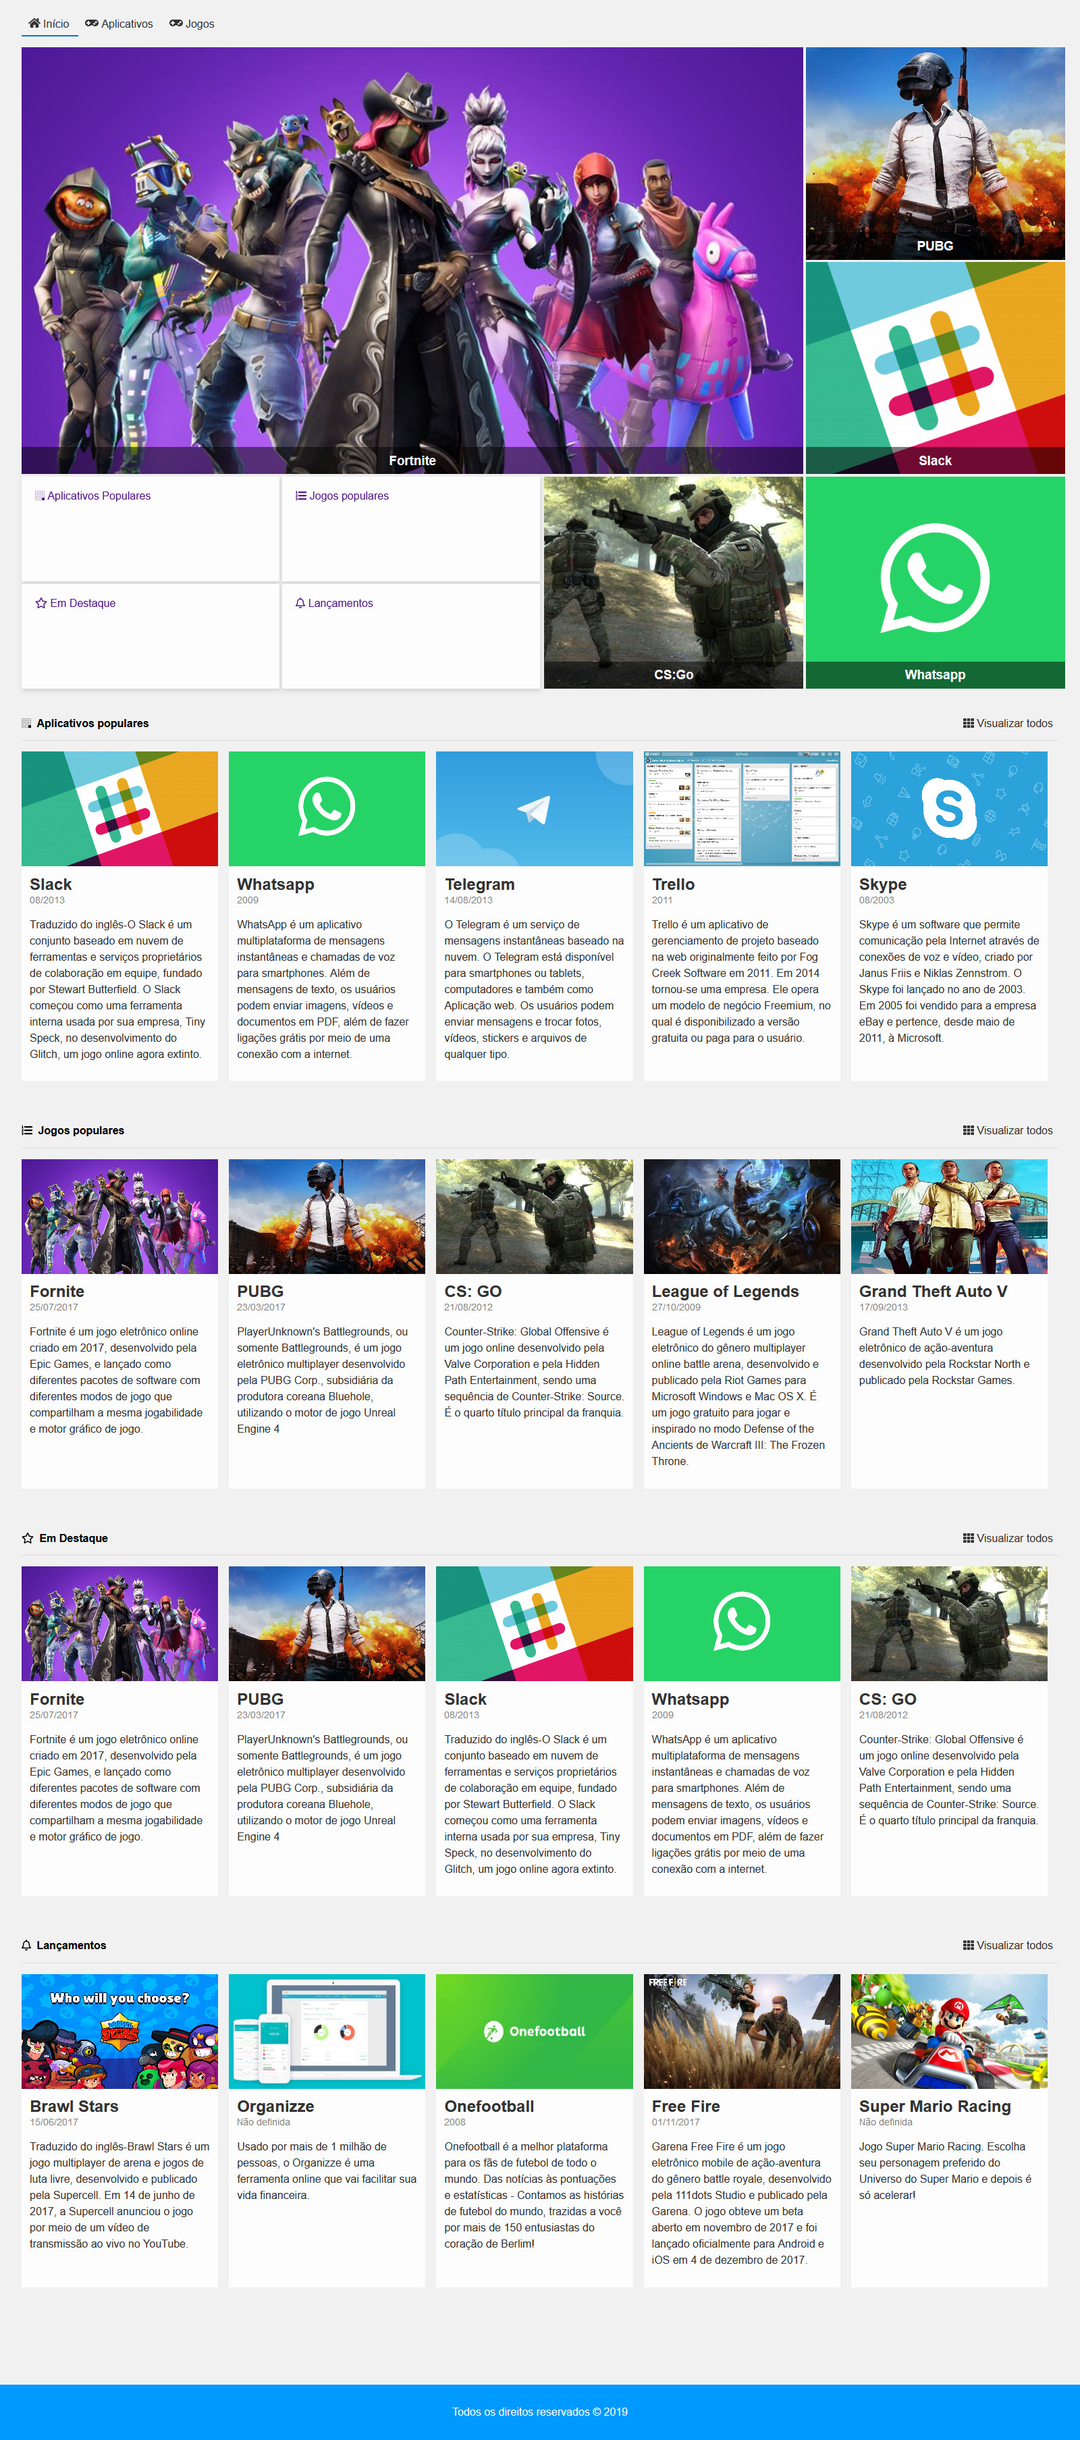
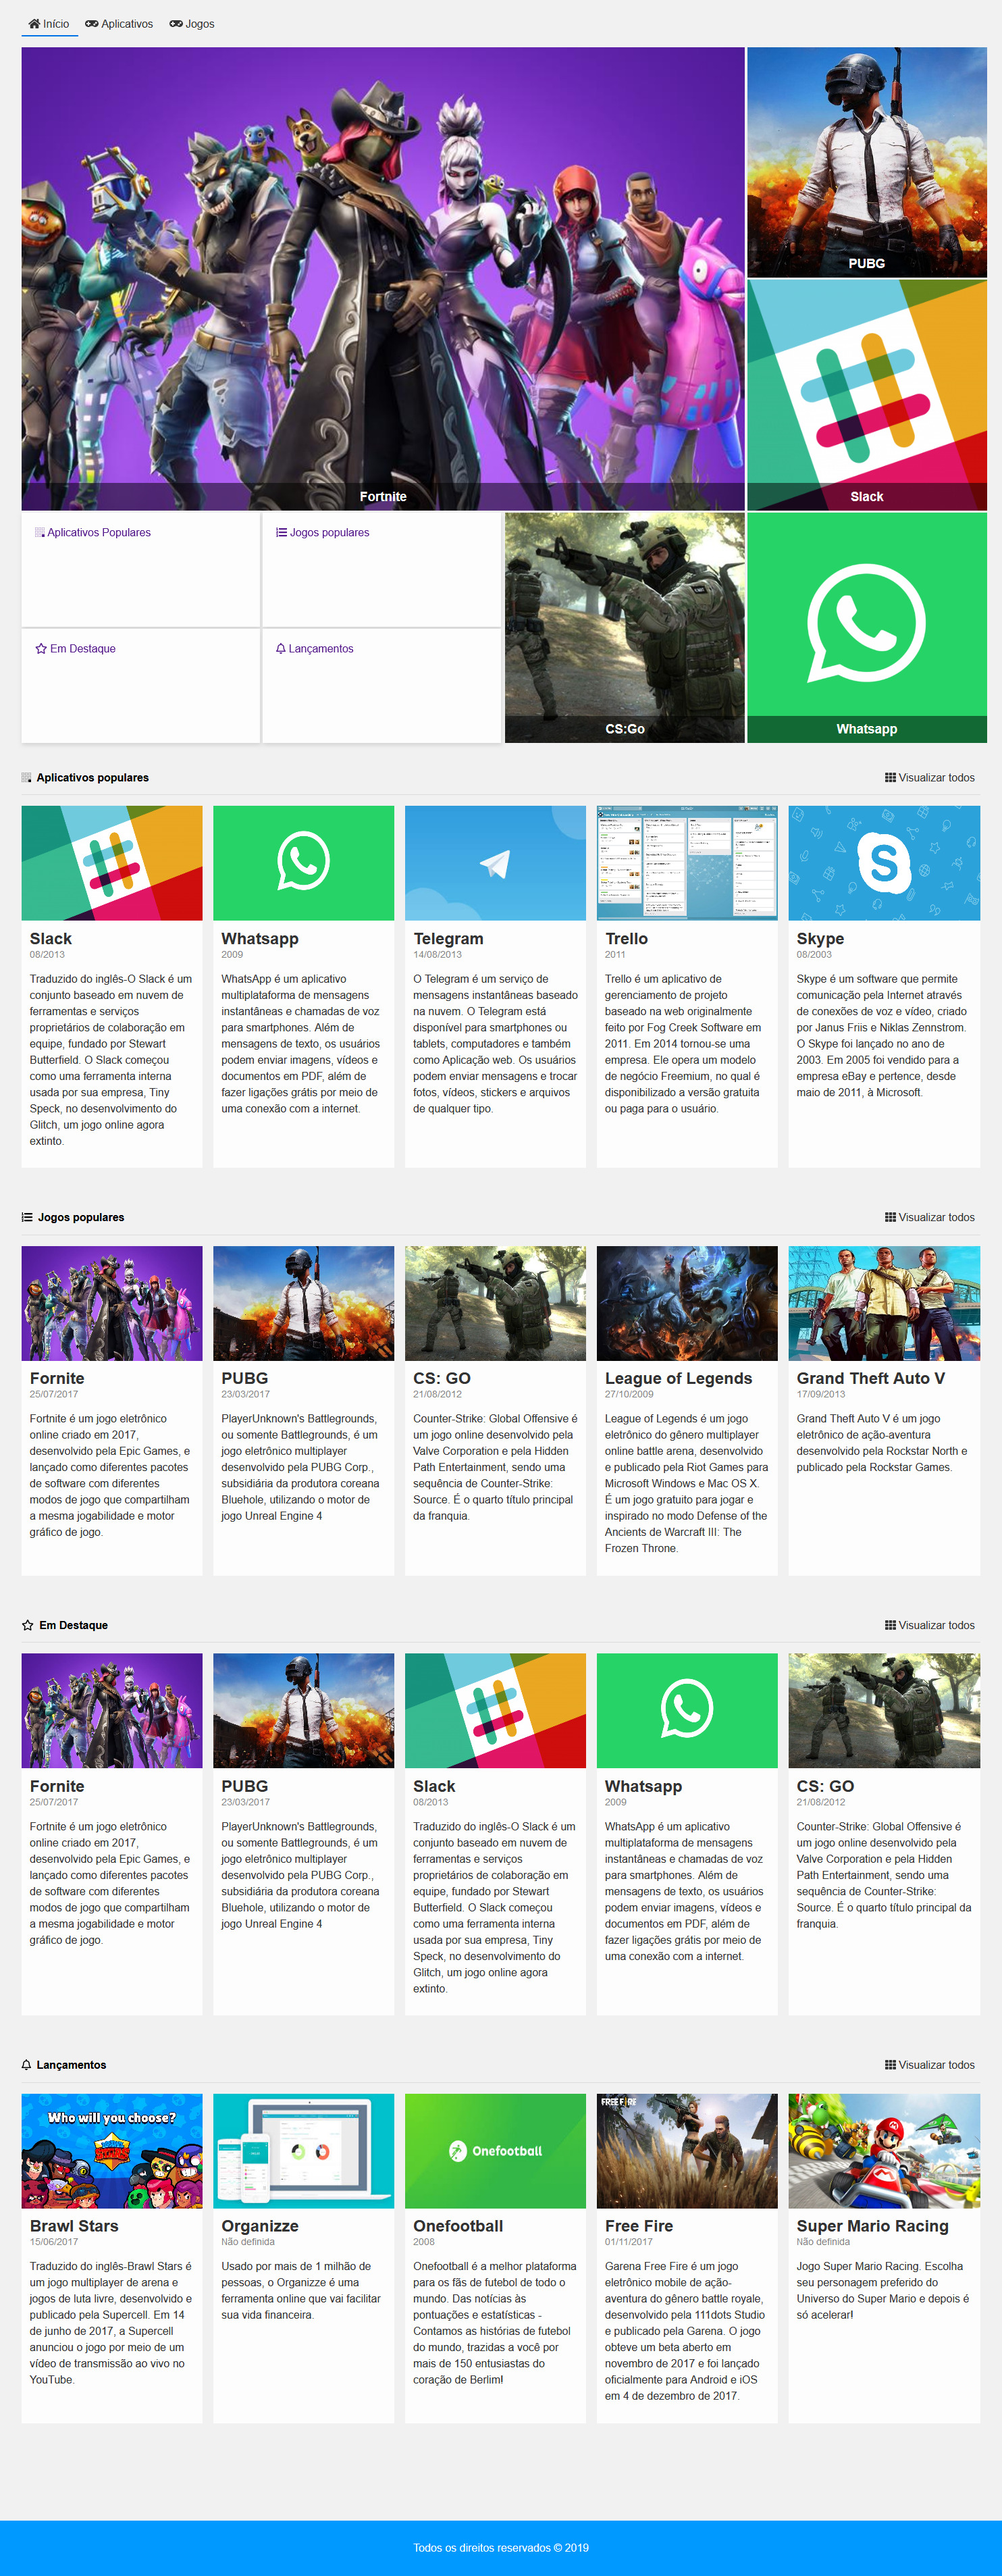
correção card e imagem preview

diff --git a/assets/css/responsivo.css b/assets/css/responsivo.css
@@ -20,7 +20,7 @@
   .populares__card, .populares__card:last-child  {
     width: 100%;
     grid-template-rows: 180px auto;
-  }
+  } 
   
 }
 
@@ -63,20 +63,34 @@
     flex-direction: row;
   }
 
-  .populares__card, .populares__card:last-child  {
+  .populares__card, .populares__card:last-child {
     width: calc(50% - 1rem);    
   }
+
+  .populares__card:nth-child(2) {
+    width: 50%;
+    margin-right: 0;
+  }  
 }
+
 
 @media screen and (min-width: 992px) {
   .populares__card, .populares__card:last-child {
     width: calc(33.33% - 1rem);
-    grid-template-rows: 170px auto;
+    grid-template-rows: 170px auto;    
   }
 }
 
 @media screen and (min-width: 1200px) {
-  .populares__card, .populares__card:last-child {
-    width: calc(20% - 1rem);        
+  .populares__card {
+    width: calc(20% - 1rem);       
   }
+  .populares__card:last-child {
+    width: 20%;
+  }
+  
+  .populares__card:nth-child(2) {
+    width: calc(20% - 1rem); 
+    margin-right: 1rem;
+  }   
 }
